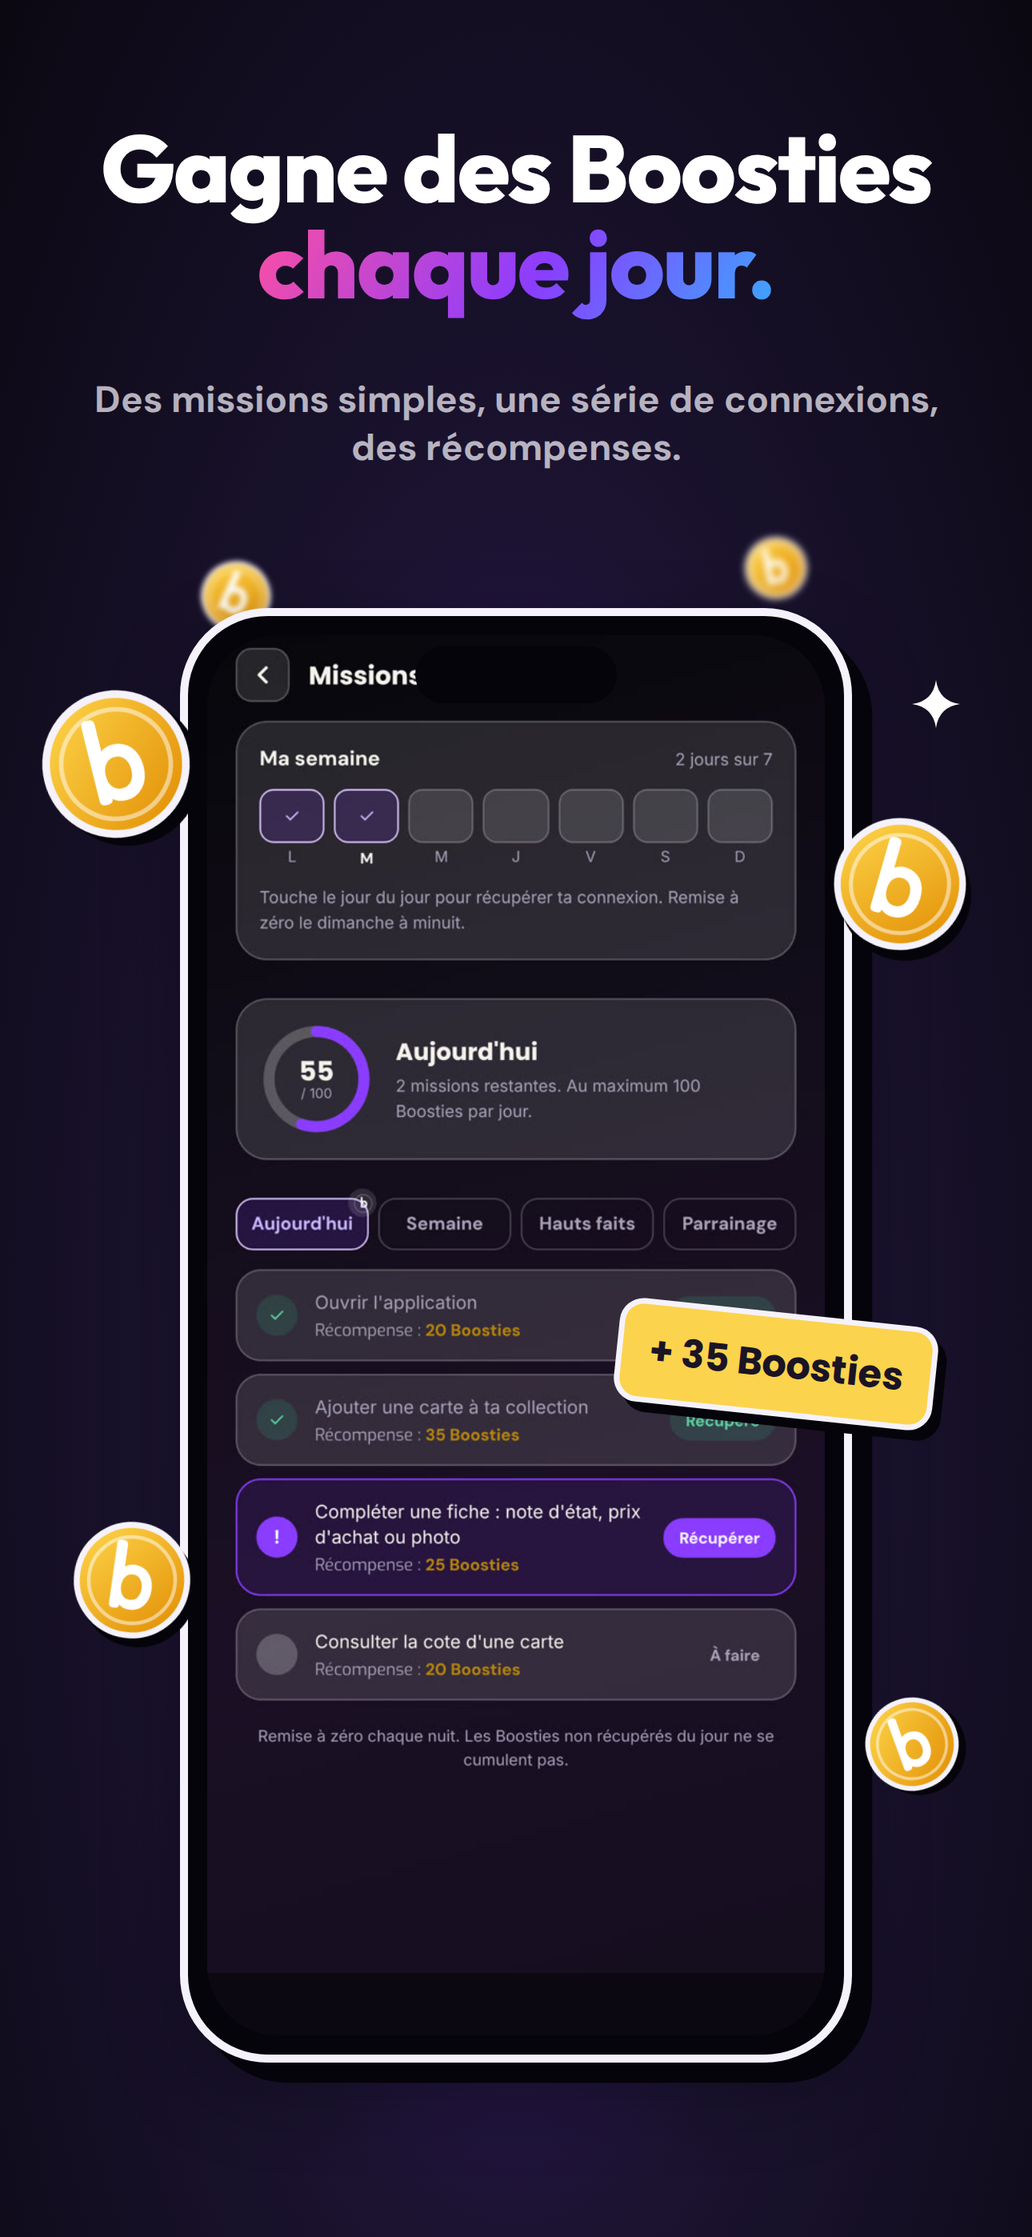
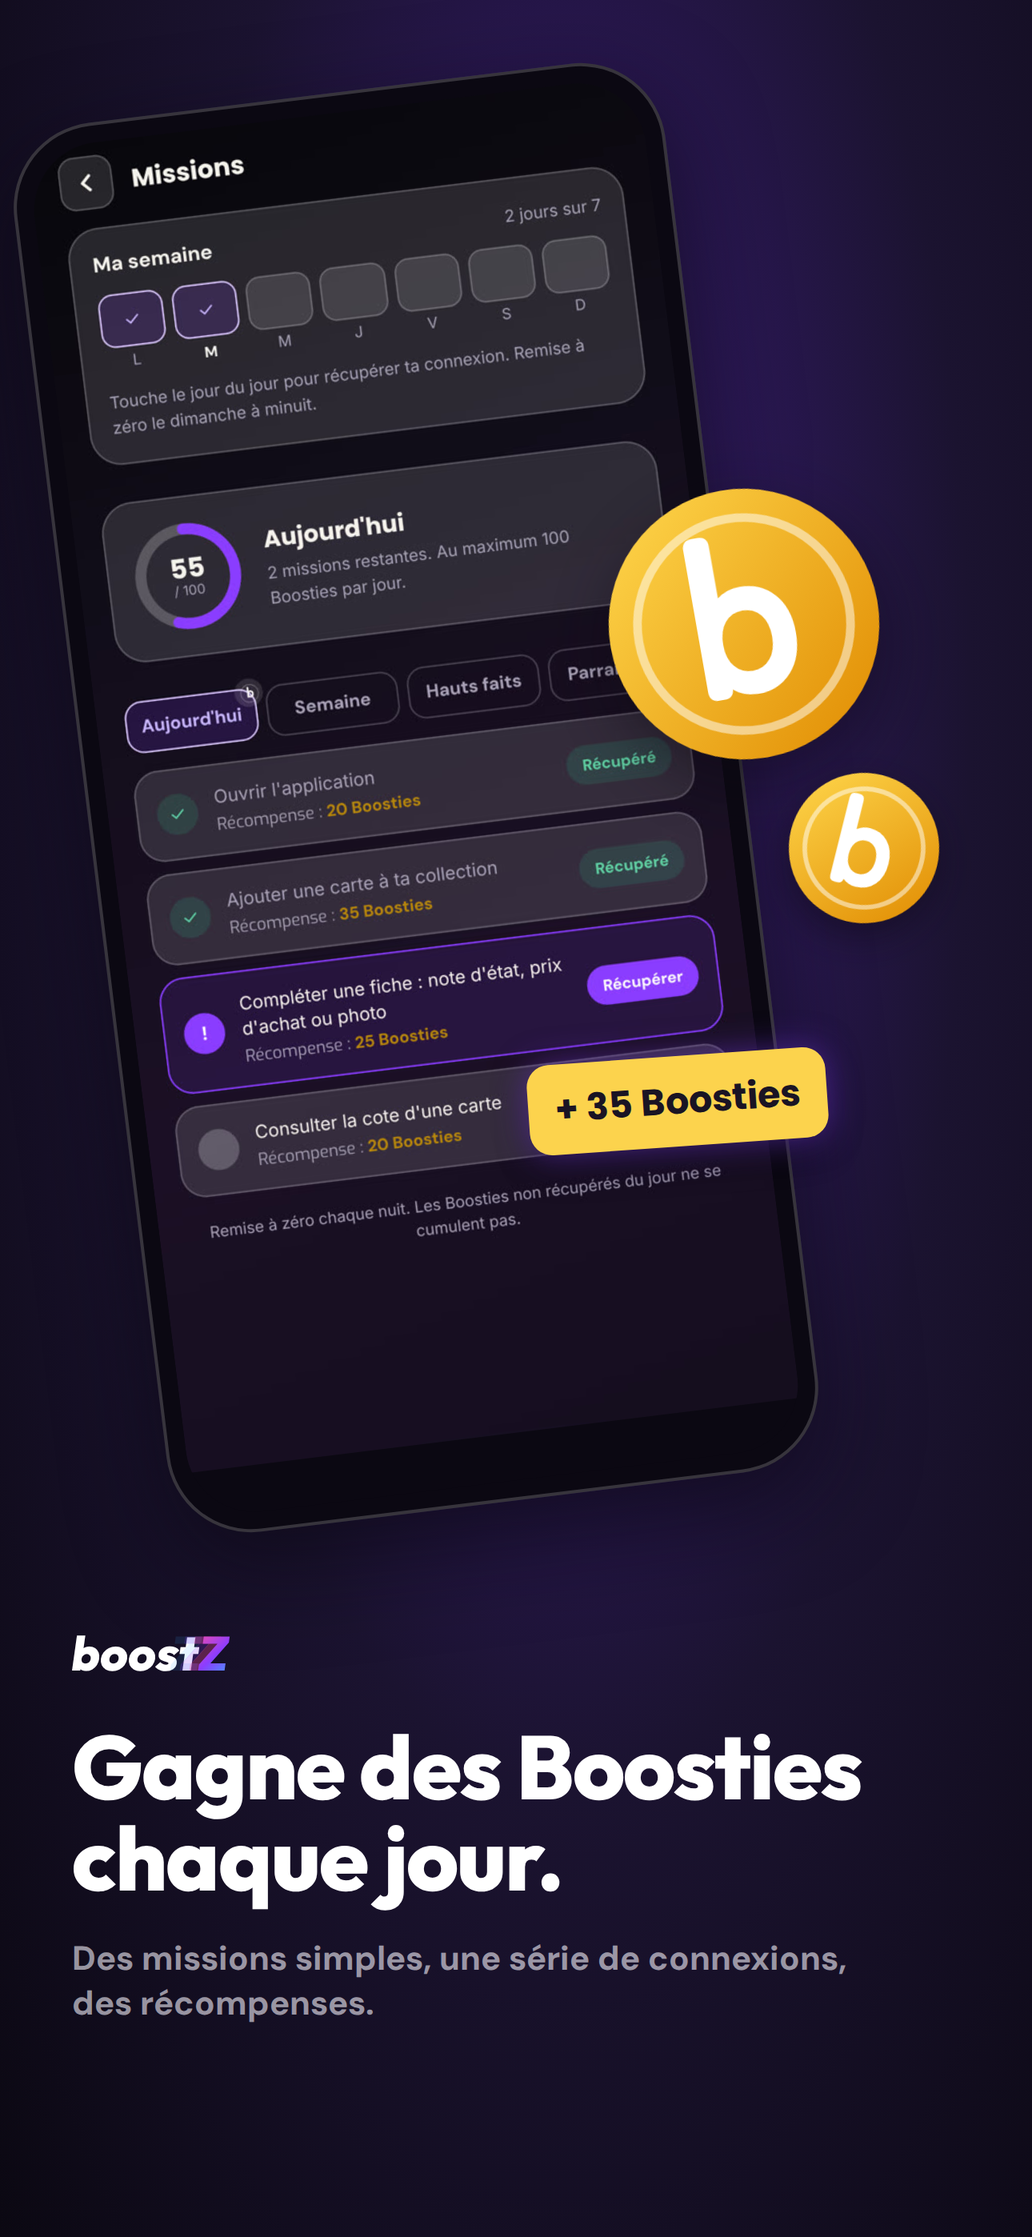
Rework the store screenshots on the model of the first online visual
TanPib found the first round less clean than the set already online,
above all its plain white or black text, and pointed to its first
visual. Each screenshot now has the phone up top, tilted, one real card
or label bursting out of it with a soft violet glow, and the small
wordmark, a plain headline and a quiet line at the bottom left; the
gradient text and most of the stickers are gone.

Claude-Session: https://claude.ai/code/session_01KYjmNhJZrtvo4jRtggkgV3

diff --git a/gabarits/store.html b/gabarits/store.html
@@ -23,92 +23,76 @@ document.head.insertAdjacentHTML('beforeend', `<style>
   .s { font-family: 'DM Sans'; font-weight: 700; text-align: center; }
   .hl { background: linear-gradient(120deg, #FF4FA0, #8B3DFF 55%, #3AA9FF); -webkit-background-clip: text; background-clip: text; color: transparent; }
 </style>`);
-// Layout: the headline band, then the phone, larger on the taller App Store canvas.
-const PW = PLAY ? 690 : 840, PT = PLAY ? 640 : 760;
+// Layout (third round, 04/11/2026). TanPib found the first round less clean than
+// the store set already online (« surtout le texte en blanc ou noir ») and
+// pointed to its first visual as the model: the phone up top, tilted and cut
+// by the edge; one hero element bursting out of it on the right, lit by a soft
+// glow; the small wordmark, then the headline in plain white or black and a
+// quiet line, bottom left. At most one label and a couple of Boosties each.
+const PW = PLAY ? 680 : 820, PY = PLAY ? 70 : 110, PXL = PLAY ? 110 : 110;
 const ground = (dark, glow = '#3B1D7A') => dark
-  ? `<div class="abs" style="inset:0;background:radial-gradient(ellipse at 50% 62%, ${glow} 0%, #1B1330 45%, #0B0812 100%)"></div>`
-  : `<div class="abs" style="inset:0;background:radial-gradient(ellipse at 50% 60%, #FFFFFF 0%, ${LIGHT} 55%, #E7E0F6 100%)"></div>`;
-const title = (dark, t, s) => `<div class="abs t" style="left:70px;right:70px;top:${PLAY ? 120 : 150}px;font-size:${PLAY ? 104 : 118}px;color:${dark ? '#fff' : INKD}">${t}</div>
-  <div class="abs s" style="left:110px;right:110px;top:${PLAY ? 400 : 470}px;font-size:${PLAY ? 40 : 46}px;line-height:1.3;color:${dark ? 'rgba(245,242,251,.72)' : '#5B5470'}">${s}</div>`;
-// A phone holding a real capture, with our white outline and hard shadow.
-const phone = (shot, o = {}) => { const w = o.w || PW, h = w * 2.164, x = o.x ?? (W - w) / 2, y = o.y ?? PT;
-  return `<div class="abs" style="left:${x}px;top:${y}px;width:${w}px;height:${h}px;transform:rotate(${o.r || 0}deg);border-radius:${w * .13}px;background:#05040A;border:${w * .012}px solid ${o.dark === false ? INKD : INK};box-shadow:${w * .03}px ${w * .03}px 0 ${o.dark === false ? 'rgba(27,19,48,.85)' : SHADOW}, 0 40px 90px rgba(11,8,18,.45);padding:${w * .028}px;z-index:${o.z || 3}">
-    <div style="width:100%;height:100%;border-radius:${w * .105}px;overflow:hidden;background:#0B0812"><img src="shots/app-${shot}.jpg" style="width:100%;display:block"></div>
-    <div style="position:absolute;left:50%;top:${w * .045}px;width:${w * .3}px;height:${w * .085}px;margin-left:${-w * .15}px;border-radius:${w * .05}px;background:#05040A"></div></div>`; };
-// A real card scan, a sticker label, the Boosties coin, a sparkle, the app icon.
-const cardS = (img, x, y, w, r, z = 4) => `<div class="abs" style="left:${x}px;top:${y}px;width:${w}px;height:${w * 1.4}px;transform:rotate(${r}deg);border:${w * .04}px solid ${INK};border-radius:${w * .06}px;overflow:hidden;box-shadow:${w * .06}px ${w * .06}px 0 ${SHADOW};z-index:${z};background:#111"><img src="assets/${img}" style="width:100%;height:100%;object-fit:cover;display:block"></div>`;
-const tag = (x, y, html, o = {}) => `<div class="abs ui" style="left:${x}px;top:${y}px;padding:${o.pad || '22px 34px'};background:${o.bg || SUN};color:${o.c || DARK};font-size:${o.fs || 48}px;border:7px solid ${INK};border-radius:30px;box-shadow:12px 12px 0 ${SHADOW};transform:rotate(${o.r || 0}deg);white-space:nowrap;z-index:${o.z || 6}">${html}</div>`;
+  ? `<div class="abs" style="inset:0;background:radial-gradient(ellipse at 55% 32%, ${glow} 0%, #1B1330 50%, #0B0812 100%)"></div>`
+  : `<div class="abs" style="inset:0;background:radial-gradient(ellipse at 55% 32%, #FFFFFF 0%, ${LIGHT} 55%, #E9E3F7 100%)"></div>`;
+const TB = H - (PLAY ? 640 : 760); // top of the text block
+const text = (dark, t, s) => `<div class="abs" style="left:90px;top:${TB}px;z-index:20">${wordmark(PLAY ? 52 : 60).replace('color:#fff', 'color:' + (dark ? '#fff' : INKD))}</div>
+  <div class="abs t" style="left:90px;right:90px;top:${TB + (PLAY ? 100 : 115)}px;font-size:${PLAY ? 96 : 112}px;text-align:left;color:${dark ? '#fff' : INKD};z-index:20">${t}</div>
+  <div class="abs s" style="left:90px;right:150px;top:${TB + (PLAY ? 100 : 115) + (PLAY ? 96 : 112) * 2.1 + 34}px;font-size:${PLAY ? 36 : 42}px;line-height:1.32;text-align:left;font-weight:600;color:${dark ? 'rgba(245,242,251,.62)' : '#625B78'};z-index:20">${s}</div>`;
+const phone = (shot, o = {}) => { const w = o.w || PW, h = w * 2.164, x = o.x ?? PXL, y = o.y ?? PY, dark = o.dark !== false;
+  return `<div class="abs" style="left:${x}px;top:${y}px;width:${w}px;height:${h}px;transform:rotate(${o.r ?? -7}deg);border-radius:${w * .13}px;background:#0B0812;border:${w * .006}px solid ${dark ? 'rgba(255,255,255,.18)' : 'rgba(27,19,48,.25)'};box-shadow:0 ${w * .05}px ${w * .14}px rgba(11,8,18,${dark ? .65 : .3});padding:${w * .026}px;z-index:${o.z || 3}">
+    <div style="width:100%;height:100%;border-radius:${w * .105}px;overflow:hidden;background:#0B0812"><img src="shots/app-${shot}.jpg" style="width:100%;display:block"></div></div>`; };
+// The hero: a real card with a glowing violet edge, as on the original visual.
+const glowCard = (src, x, y, w, r, z = 8) => `<div class="abs" style="left:${x}px;top:${y}px;width:${w}px;height:${w * 1.4}px;transform:rotate(${r}deg);border:${w * .022}px solid #E9DDFF;border-radius:${w * .06}px;overflow:hidden;box-shadow:0 0 ${w * .1}px rgba(167,139,250,.9), 0 0 ${w * .3}px rgba(124,58,237,.55), 0 ${w * .08}px ${w * .2}px rgba(11,8,18,.6);z-index:${z};background:#111"><img src="${src}" style="width:100%;height:100%;object-fit:cover;display:block"></div>`;
+const real = (img, x, y, w, r, z) => glowCard('assets/' + img, x, y, w, r, z);
+const dos = (g, x, y, w, r, z) => glowCard(`assets/dos-${g}.svg`, x, y, w, r, z);
+const label = (x, y, html, o = {}) => `<div class="abs ui" style="left:${x}px;top:${y}px;padding:${o.pad || '22px 34px'};background:${o.bg || '#fff'};color:${o.c || INKD};font-size:${o.fs || 46}px;border-radius:28px;box-shadow:0 0 40px rgba(124,58,237,.5), 0 18px 40px rgba(11,8,18,.4);transform:rotate(${o.r || 0}deg);white-space:nowrap;z-index:${o.z || 9}">${html}</div>`;
 const B = 'M39.9 25.2 Q39.9 22.4 42.7 22.4 L44.3 22.4 Q47.1 22.4 47.1 25.2 L47.1 39.9 Q49.9 37.8 53.6 37.8 Q59.4 37.8 63.1 41.9 Q66.8 46 66.8 52.9 Q66.8 59.8 63.1 63.9 Q59.4 68 53.6 68 Q49.6 68 46.8 65.6 L46.8 65.7 Q46.6 68 44 68 L42.7 68 Q39.9 68 39.9 65.2 Z M53.2 44.4 Q50.1 44.4 48.2 46.7 Q46.3 49 46.3 52.9 Q46.3 56.8 48.2 59.1 Q50.1 61.4 53.2 61.4 Q56.3 61.4 58.2 59.1 Q60.1 56.8 60.1 52.9 Q60.1 49 58.2 46.7 Q56.3 44.4 53.2 44.4 Z';
 let cid = 0;
-const coin = (x, y, d, r = 0, z = 5, blur = 0) => { const g = 'cg' + cid++; return `<svg class="abs" width="${d}" height="${d}" viewBox="0 0 100 100" style="left:${x}px;top:${y}px;transform:rotate(${r}deg);z-index:${z};filter:${blur ? `blur(${blur}px)` : `drop-shadow(${d * .06}px ${d * .07}px 0 ${SHADOW})`};overflow:visible"><defs><linearGradient id="${g}" x1="0" y1="0" x2="1" y2="1"><stop offset="0" stop-color="#FFD84D"/><stop offset="1" stop-color="#E08A00"/></linearGradient></defs><circle cx="50" cy="50" r="46" fill="url(#${g})" stroke="${INK}" stroke-width="5"/><circle cx="50" cy="50" r="36" fill="none" stroke="rgba(255,255,255,.5)" stroke-width="3"/><g transform="translate(50 46) scale(1.25) translate(-53 -45)"><path d="${B}" fill="#fff"/></g></svg>`; };
-const spark = (x, y, s, c = '#fff', z = 2) => `<svg class="abs" width="${2 * s}" height="${2 * s}" viewBox="-1 -1 2 2" style="left:${x - s}px;top:${y - s}px;z-index:${z};overflow:visible"><path d="M0 -1 Q.12 -.12 1 0 Q.12 .12 0 1 Q-.12 .12 -1 0 Q-.12 -.12 0 -1Z" fill="${c}"/></svg>`;
-const icon = (x, y, d, r = 0, z = 6) => `<img class="abs" src="assets/icone-app.png" style="left:${x}px;top:${y}px;width:${d}px;height:${d}px;border-radius:${d * .23}px;border:${d * .04}px solid ${INK};box-shadow:${d * .06}px ${d * .06}px 0 ${SHADOW};transform:rotate(${r}deg);z-index:${z}">`;
-const gdisc = (game, x, y, d, r = 0, z = 5) => `<div class="abs" style="left:${x}px;top:${y}px;transform:rotate(${r}deg);z-index:${z}">${emblemDisc(game, d)}</div>`;
-const flag = (c, x, y, w, r = 0, z = 6) => `<img class="abs" src="assets/drapeau-${c}.svg" style="left:${x}px;top:${y}px;width:${w}px;height:${w * .66}px;object-fit:cover;border:7px solid ${INK};border-radius:18px;box-shadow:10px 10px 0 ${SHADOW};transform:rotate(${r}deg);z-index:${z}">`;
-const sback = (g, x, y, w, r, z = 2, op = 1) => `<img class="abs" src="assets/dos-${g}.svg" style="left:${x}px;top:${y}px;width:${w}px;height:${w * 1.4}px;border:${w * .04}px solid ${INK};border-radius:${w * .07}px;box-shadow:${w * .05}px ${w * .05}px 0 ${SHADOW};transform:rotate(${r}deg);z-index:${z};opacity:${op}">`;
-const mid = PT + PW * 1.0; // a band level with the middle of the phone
+const coin = (x, y, d, r = 0, z = 9) => { const g = 'cg' + cid++; return `<svg class="abs" width="${d}" height="${d}" viewBox="0 0 100 100" style="left:${x}px;top:${y}px;transform:rotate(${r}deg);z-index:${z};filter:drop-shadow(0 ${d * .08}px ${d * .12}px rgba(11,8,18,.5));overflow:visible"><defs><linearGradient id="${g}" x1="0" y1="0" x2="1" y2="1"><stop offset="0" stop-color="#FFD84D"/><stop offset="1" stop-color="#E08A00"/></linearGradient></defs><circle cx="50" cy="50" r="47" fill="url(#${g})"/><circle cx="50" cy="50" r="37" fill="none" stroke="rgba(255,255,255,.5)" stroke-width="3"/><g transform="translate(50 46) scale(1.25) translate(-53 -45)"><path d="${B}" fill="#fff"/></g></svg>`; };
+// The right side, level with the lower half of the phone.
+const RX = W - (PLAY ? 520 : 600), RY = PLAY ? 430 : 600;
 const S = [];
 
-// 1 - The hook: your collection and what it is worth.
-S.push(['1-collection', `${ground(true)}${title(true, 'Ta collection,<br><span class="hl">sa vraie valeur.</span>', 'Tes cartes de 8 TCG au même endroit, avec leur cote du jour.')}
-  ${phone('accueil')}
-  ${cardS('carte-dracaufeu-ex-sv035-199.jpg', 40, PT + 120, 300, -14)}${cardS('carte-valgavoth-dsk-407.jpg', W - 330, PT + 60, 290, 12)}${cardS('carte-elsa-enchantee-tfc-207.avif', W - 300, mid + 260, 260, -8)}
-  ${tag(30, PT + 640, '+21,9 %<br><span style="font-size:.6em">en 30 jours</span>', { bg: DONE, r: -6, pad: '18px 30px' })}
-  ${coin(110, mid + 420, 130, -12)}${coin(W - 250, PT - 80, 110, 18)}${spark(260, PT - 40, 34)}${spark(W - 120, mid + 60, 26, SUN)}`]);
+S.push(['1-collection', `${ground(true)}${phone('accueil')}
+  ${real('carte-dracaufeu-ex-sv035-199.jpg', RX + 40, RY, PLAY ? 430 : 500, 8)}
+  ${label(RX - 40, RY + (PLAY ? 700 : 820), '<span style="color:#1E9E6A">▲ +21,9 %</span> en 30 jours', { r: -4, fs: PLAY ? 38 : 44 })}
+  ${text(true, 'Ta collection,<br>sa vraie valeur.', 'Tes cartes de 8 TCG au même endroit, avec leur cote du jour.')}`]);
 
-// 2 - Invest': the portfolio by game and by language.
-S.push(['2-invest', `${ground(false)}${title(false, 'Ton portefeuille TCG,<br><span class="hl">jeu par jeu.</span>', 'Ce que pèse chaque jeu et chaque langue, et comment ça évolue.')}
-  ${phone('invest', { dark: false })}
-  ${gdisc('pokemon', 60, PT + 180, 170, -8)}${gdisc('lorcana', W - 230, PT + 330, 160, 10)}${gdisc('onepiece', 90, mid + 200, 150, 6)}
-  ${tag(W - 470, mid + 90, '149,80 €', { bg: V, c: '#fff', r: 5, fs: 56 })}
-  ${spark(240, PT - 30, 32, V)}${spark(W - 150, PT + 120, 24, '#FF4FA0')}`]);
+S.push(['2-invest', `${ground(false)}${phone('invest', { dark: false })}
+  ${dos('pokemon', RX + 20, RY - 40, PLAY ? 300 : 340, -6, 7)}${dos('lorcana', RX + 160, RY + 180, PLAY ? 300 : 340, 9, 8)}
+  ${label(RX - 30, RY + (PLAY ? 700 : 800), '149,80 €', { bg: V, c: '#fff', r: -4, fs: PLAY ? 54 : 62 })}
+  ${text(false, 'Ton portefeuille TCG,<br>jeu par jeu.', 'Ce que pèse chaque jeu et chaque langue, et comment ça évolue.')}`]);
 
-// 3 - The showcase: the cards you want to show.
-S.push(['3-vitrine', `${ground(true, '#4A1FA0')}${title(true, 'Montre ta<br><span class="hl">vitrine.</span>', 'Tes plus belles cartes et tes scellés, rangés comme dans un classeur.')}
-  ${phone('vitrine')}
-  ${cardS('carte-mega-dracaufeu-x-pfl130.jpg', 30, PT + 260, 320, -12)}${cardS('carte-hyperia-241-mickey.jpg', W - 340, PT + 160, 300, 10)}${cardS('carte-son-goku-fb01-139.webp', W - 310, mid + 330, 270, -6)}
-  ${spark(200, PT + 160, 40, SUN)}${spark(W - 200, PT + 90, 30)}${spark(150, mid + 500, 26)}`]);
+S.push(['3-vitrine', `${ground(true, '#4A1FA0')}${phone('vitrine')}
+  ${real('carte-hyperia-241-mickey.jpg', RX + 40, RY - 20, PLAY ? 430 : 500, 9)}
+  ${text(true, 'Montre ta vitrine.', 'Tes plus belles cartes et tes scellés, rangés comme dans un classeur.')}`]);
 
-// 4 - The languages: French, English and Japanese, side by side.
-S.push(['4-langues', `${ground(false)}${title(false, 'Français, anglais,<br><span class="hl">japonais.</span>', 'Choisis les langues que tu collectionnes, jeu par jeu.')}
-  ${phone('langues', { dark: false })}
-  ${flag('fr', 50, PT + 200, 220, -8)}${flag('en', W - 270, PT + 380, 220, 7)}${flag('ja', 70, mid + 230, 220, 5)}
-  ${cardS('carte-luffy-op05-119-p1-jp.png', W - 320, mid + 260, 270, 9)}
-  ${spark(260, PT - 20, 30, V)}`]);
+S.push(['4-langues', `${ground(false)}${phone('langues', { dark: false })}
+  ${real('carte-luffy-op05-119-p1-jp.png', RX + 40, RY - 20, PLAY ? 400 : 460, 8)}
+  <div class="abs" style="left:${RX - 20}px;top:${RY + (PLAY ? 640 : 740)}px;display:flex;gap:22px;z-index:9">${['fr', 'en', 'ja'].map((c, i) => `<img src="assets/drapeau-${c}.svg" style="width:${PLAY ? 140 : 160}px;height:${PLAY ? 93 : 106}px;object-fit:cover;border-radius:14px;box-shadow:0 12px 28px rgba(11,8,18,.3);transform:rotate(${[-5, 3, -2][i]}deg)">`).join('')}</div>
+  ${text(false, 'Français, anglais,<br>japonais.', 'Choisis les langues que tu collectionnes, jeu par jeu.')}`]);
 
-// 5 - Missions: Boosties every day.
-S.push(['5-missions', `${ground(true)}${title(true, 'Gagne des Boosties<br><span class="hl">chaque jour.</span>', 'Des missions simples, une série de connexions, des récompenses.')}
-  ${phone('missions')}
-  ${coin(50, PT + 100, 190, -14)}${coin(W - 250, PT + 260, 170, 16)}${coin(90, mid + 300, 150, 8)}${coin(W - 210, mid + 520, 120, -20)}${coin(250, PT - 60, 90, 25, 2, 3)}${coin(W - 360, PT - 90, 80, -10, 2, 4)}
-  ${tag(W - 520, mid + 40, '+ 35 Boosties', { bg: SUN, r: 6 })}${spark(W - 120, PT + 120, 30)}`]);
+S.push(['5-missions', `${ground(true)}${phone('missions')}
+  ${coin(RX + 60, RY, PLAY ? 300 : 360, -10)}${coin(RX + 290, RY + (PLAY ? 300 : 360), PLAY ? 170 : 200, 14)}
+  ${label(RX - 30, RY + (PLAY ? 620 : 720), '+ 35 Boosties', { bg: SUN, c: DARK, r: -4 })}
+  ${text(true, 'Gagne des Boosties<br>chaque jour.', 'Des missions simples, une série de connexions, des récompenses.')}`]);
 
-// 6 - Sponsorship: invite your friends.
-S.push(['6-parrainage', `${ground(false)}${title(false, 'Invite tes potes,<br><span class="hl">gagnez des Boosties.</span>', 'Ton code : 150 Boosties pour ton filleul, 100 pour toi.')}
-  ${phone('parrainage', { dark: false })}
-  ${coin(60, PT + 220, 170, -10)}${coin(W - 240, PT + 140, 150, 14)}
-  ${tag(40, mid + 180, '150 pour lui', { bg: V, c: '#fff', r: -6 })}${tag(W - 440, mid + 360, '100 pour toi', { bg: SUN, r: 6 })}
-  ${spark(250, PT - 30, 30, '#FF4FA0')}${spark(W - 160, mid + 140, 26, V)}`]);
+S.push(['6-parrainage', `${ground(false)}${phone('parrainage', { dark: false })}
+  ${label(RX + 20, RY + 40, '150 pour lui', { bg: V, c: '#fff', r: -5, fs: PLAY ? 50 : 58 })}${label(RX + 80, RY + (PLAY ? 230 : 260), '100 pour toi', { bg: SUN, c: DARK, r: 4, fs: PLAY ? 50 : 58 })}
+  ${coin(RX + 120, RY + (PLAY ? 460 : 520), PLAY ? 220 : 260, -10)}
+  ${text(false, 'Invite tes potes,<br>gagnez des Boosties.', 'Ton code : 150 Boosties pour ton filleul, 100 pour toi.')}`]);
 
-// 7 - The Pass, as an option, with its launch price: a smaller phone on the right
-// leaves a column for the price on the left.
-S.push(['7-pass', `${ground(true, '#5B21B6')}${title(true, 'Va plus loin<br><span class="hl">avec le Pass.</span>', 'En option : les 8 jeux, 30 alertes, 15 pré-estimations par 30 jours, une wishlist de 30.')}
-  ${phone('pass', { w: PW * .86, x: W - PW * .86 - 60, y: PT + 40, r: 2 })}
-  ${tag(40, PT + 260, '2,99 €<span style="font-size:.5em">/mois</span>', { bg: SUN, r: -6, fs: 84, pad: '18px 30px' })}
-  <div class="abs s" style="left:40px;top:${PT + 480}px;width:360px;font-size:34px;line-height:1.3;color:rgba(245,242,251,.85);text-align:left">jusqu'au 31/12/2027,<br>puis 4,99 €/mois</div>
-  ${tag(40, PT + 640, '+ 1 500<br><span style="font-size:.7em">Boosties/mois</span>', { bg: V, c: '#fff', r: 5, fs: 48 })}
-  ${coin(110, PT + 900, 170, -12)}${coin(250, PT + 1180, 110, 16)}
-  ${spark(330, PT + 100, 32, SUN)}${spark(170, mid + 520, 28)}`]);
+S.push(['7-pass', `${ground(true, '#5B21B6')}${phone('pass')}
+  ${label(RX + 10, RY + 20, '2,99 €<span style="font-size:.5em"> /mois</span><div style="font-size:.36em;font-weight:600;margin-top:6px">jusqu’au 31/12/2027, puis 4,99 €</div>', { bg: SUN, c: DARK, r: -5, fs: PLAY ? 76 : 88, pad: '20px 34px' })}
+  ${label(RX + 40, RY + (PLAY ? 330 : 380), '+ 1 500 Boosties<br><span style="font-size:.75em">par mois payé</span>', { r: 4, fs: PLAY ? 38 : 44 })}
+  ${text(true, 'Va plus loin<br>avec le Pass.', 'En option : les 8 jeux, 30 alertes, 15 pré‑estimations par 30 jours, une wishlist de 30.')}`]);
 
-// 8 - The promise: the eight games in one app, the app's own card backs fanned
-// behind the new icon, the eight emblems in a row, the wordmark.
 const games8 = ['pokemon', 'onepiece', 'lorcana', 'yugioh', 'magic', 'starwarsunlimited', 'dragonball', 'wow'];
-const FY = PT + (PLAY ? 520 : 640), FW = PLAY ? 210 : 240;
-S.push(['8-huit-tcg', `${ground(true, '#4A1FA0')}${title(true, 'Les 8 TCG,<br><span class="hl">une seule appli.</span>', 'Pokémon, One Piece, Lorcana, Yu-Gi-Oh!, Magic, Star Wars Unlimited, Dragon Ball, Warcraft.')}
-  ${games8.map((g, i) => { const a = (i - 3.5) * 8, rad = a * Math.PI / 180, R = PLAY ? 640 : 760; return sback(g, W / 2 - FW / 2 + Math.sin(rad) * R, FY - FW * .7 + R - Math.cos(rad) * R, FW, a, 2 + i); }).join('')}
-  ${icon(W / 2 - (PLAY ? 170 : 200), FY + (PLAY ? 260 : 340), PLAY ? 340 : 400, -4, 20)}
-  <div class="abs" style="left:0;width:${W}px;top:${FY + (PLAY ? 720 : 900)}px;display:flex;justify-content:center;gap:${PLAY ? 14 : 18}px;z-index:20">${games8.map((g, i) => `<div style="transform:rotate(${i % 2 ? 6 : -6}deg)">${emblemDisc(g, PLAY ? 118 : 128)}</div>`).join('')}</div>
-  <div class="abs" style="left:0;width:${W}px;top:${FY + (PLAY ? 930 : 1160)}px;display:flex;justify-content:center;z-index:20">${wordmark(PLAY ? 120 : 150)}</div>
-  ${spark(180, FY - 60, 34, SUN)}${spark(W - 180, FY + 40, 28)}${spark(220, FY + 640, 24)}${spark(W - 230, FY + 700, 30, '#FF4FA0')}`]);
+const FY = PLAY ? 260 : 320, FW = PLAY ? 220 : 250;
+S.push(['8-huit-tcg', `${ground(true, '#4A1FA0')}
+  ${games8.map((g, i) => { const a = (i - 3.5) * 8, rad = a * Math.PI / 180, R = PLAY ? 660 : 780; return dos(g, W / 2 - FW / 2 + Math.sin(rad) * R, FY + R - Math.cos(rad) * R, FW, a, 2 + i); }).join('')}
+  <img class="abs" src="assets/icone-app.png" style="left:${W / 2 - (PLAY ? 180 : 210)}px;top:${FY + (PLAY ? 330 : 400)}px;width:${PLAY ? 360 : 420}px;border-radius:${PLAY ? 82 : 96}px;box-shadow:0 0 60px rgba(167,139,250,.7), 0 30px 70px rgba(11,8,18,.6);transform:rotate(-4deg);z-index:20">
+  <div class="abs" style="left:0;width:${W}px;top:${FY + (PLAY ? 800 : 960)}px;display:flex;justify-content:center;gap:${PLAY ? 14 : 18}px;z-index:20">${games8.map((g) => `<div style="border-radius:50%;box-shadow:0 10px 24px rgba(11,8,18,.4)">${emblemDisc(g, PLAY ? 112 : 124)}</div>`).join('')}</div>
+  ${text(true, 'Les 8 TCG,<br>une seule appli.', 'Pokémon, One Piece, Lorcana, Yu-Gi-Oh!, Magic, Star Wars Unlimited, Dragon Ball, Warcraft.')}`]);
 
 carousel(S);
 </script></body></html>
